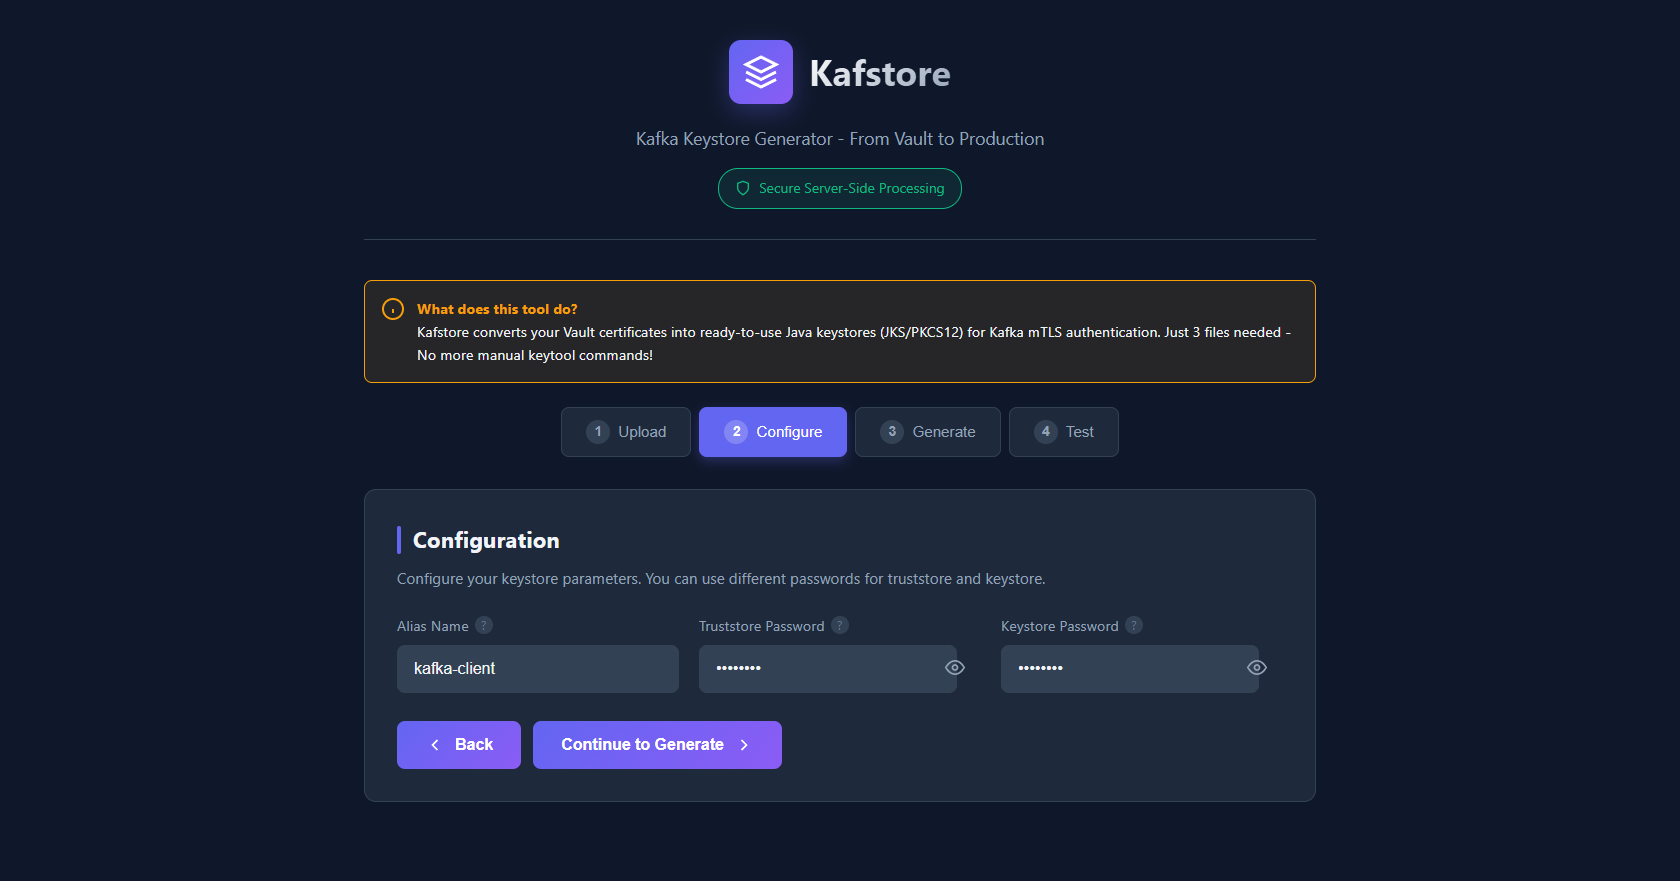
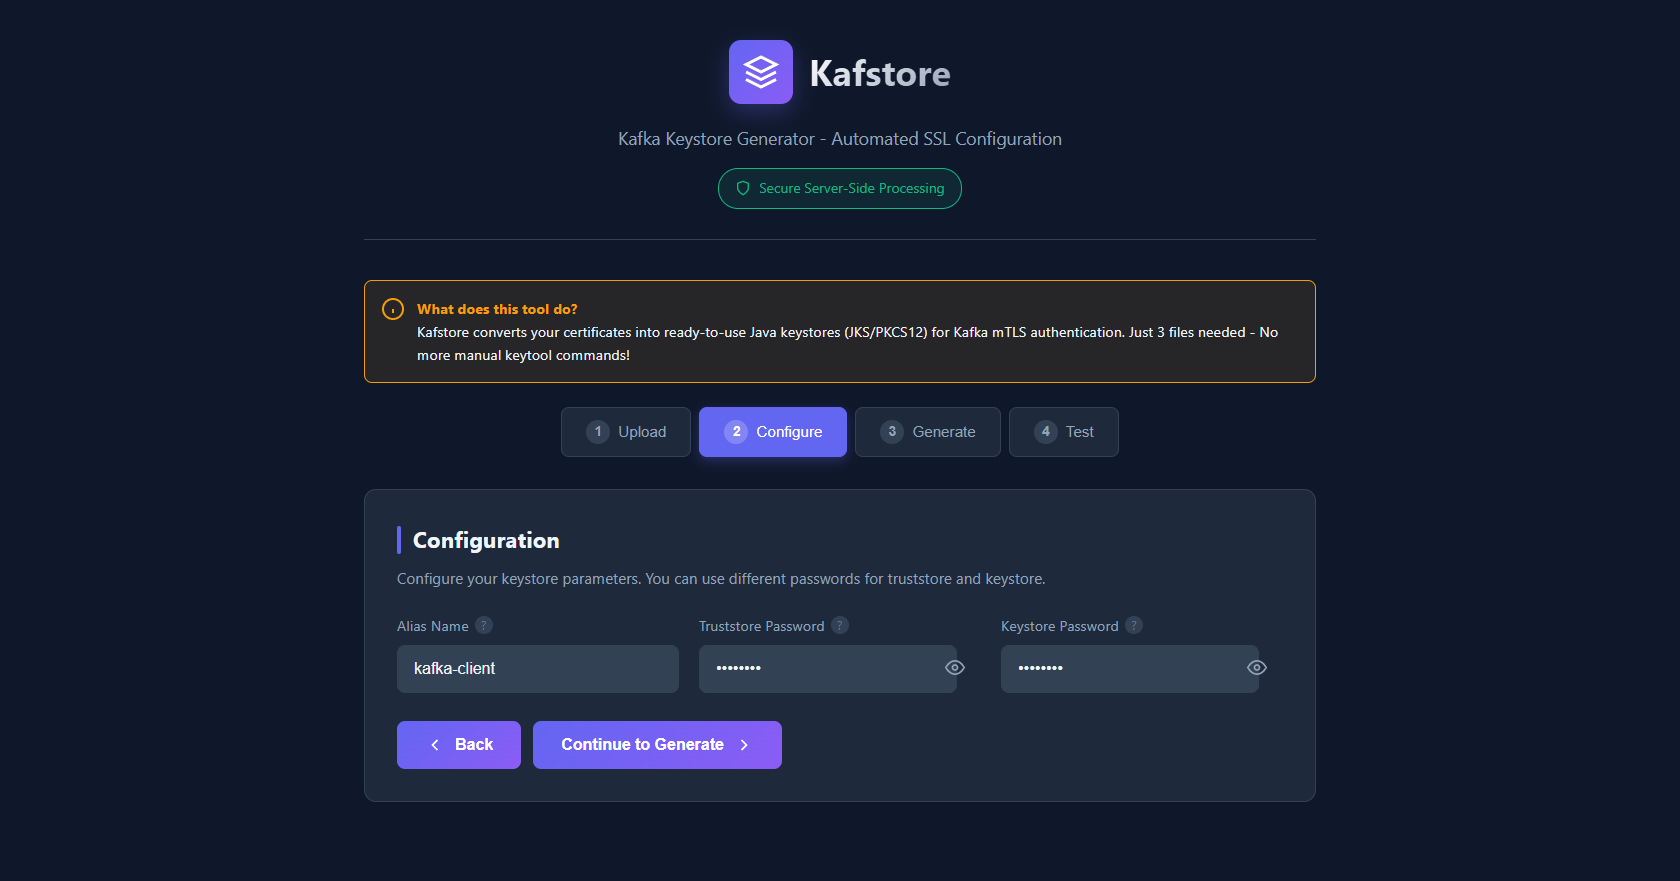
initial import

Changed region(s): [[0.2476, 0.3678, 0.7738, 0.4291], [0.3714, 0.1532, 0.619, 0.1839]]

diff --git a/README.md b/README.md
@@ -17,7 +17,7 @@ Kafstore automates the tedious process of converting certificates into Java keys
 
 ### Steps
 1. Upload your **3 certificate files** (CA chain, bundle, key)
-2. Configure alias and passwords (separate for truststore/keystore)
+2. Configure alias and passwords
 3. Click "Generate & Download"
 4. Get your ready-to-use keystores in a ZIP file
 
@@ -63,7 +63,6 @@ docker-compose logs -f
 docker-compose down
 ```
 
-![Configuration Screen](docs/screenshots/kafstore-config.png)
 
 ### Manual Installation
 
@@ -86,8 +85,6 @@ python app.py
 
 ## 📖 Usage Guide
 
-![Generation Screen](docs/screenshots/kafstore-generate.png)
-
 ### Step 1: Upload Certificates
 
 You need only **3 files** from your certificate authority:
@@ -95,7 +92,8 @@ You need only **3 files** from your certificate authority:
 - **Bundle**: Your client certificate + intermediate CAs for keystore
 - **Private Key**: Your private key for keystore
 
-**Note:** File extensions don't matter - Kafstore accepts files without extensions!
+
+![Kafstore Interface](docs/screenshots/kafstore-upload.png)
 
 ### Step 2: Configure
 
@@ -103,7 +101,7 @@ You need only **3 files** from your certificate authority:
 - **Truststore Password**: Password for protecting `truststore.jks` (default: changeit)
 - **Keystore Password**: Password for protecting `keystore.jks` and `keystore.p12` (default: changeit)
 
-**New!** You can now use different passwords for truststore and keystore, with password visibility toggles.
+![Configuration Screen](docs/screenshots/kafstore-config.png)
 
 ### Step 3: Generate
 
@@ -113,12 +111,16 @@ Click "Generate Keystores" to create:
 - `keystore.p12` - Contains your client certificate (PKCS12 format)
 - `client-ssl.properties` - Ready-to-use Kafka configuration
 
+![Generation Screen](docs/screenshots/kafstore-generate.png)
+
 ### Step 4: Test (Optional)
 
 Use the built-in tester to validate your keystores:
 - Performs actual mTLS handshake with your Kafka broker
 - Verifies certificate chain is complete
 - Shows connection details on success
+
+![Kafstore Interface](docs/screenshots/kafstore-test.png)
 
 ### Step 5: Download & Use
 
@@ -148,13 +150,13 @@ ssl.key.password=your-keystore-password
     │  API     │
     └────┬─────┘
          │
-    ┌────▼──────────────┐
-    │  Certificate      │
-    │  Processing       │
-    │  ├─ keytool       │ (Java)
-    │  ├─ openssl       │
-    │  └─ cryptography  │ (Python)
-    └───────────────────┘
+┌────▼──────────────┐
+│  Certificate      │
+│  Processing       │
+│  ├─ keytool       │ (Java)
+│  ├─ openssl       │
+│  └─ cryptography  │ (Python)
+└───────────────────┘
 ```
 
 ## API Endpoints
